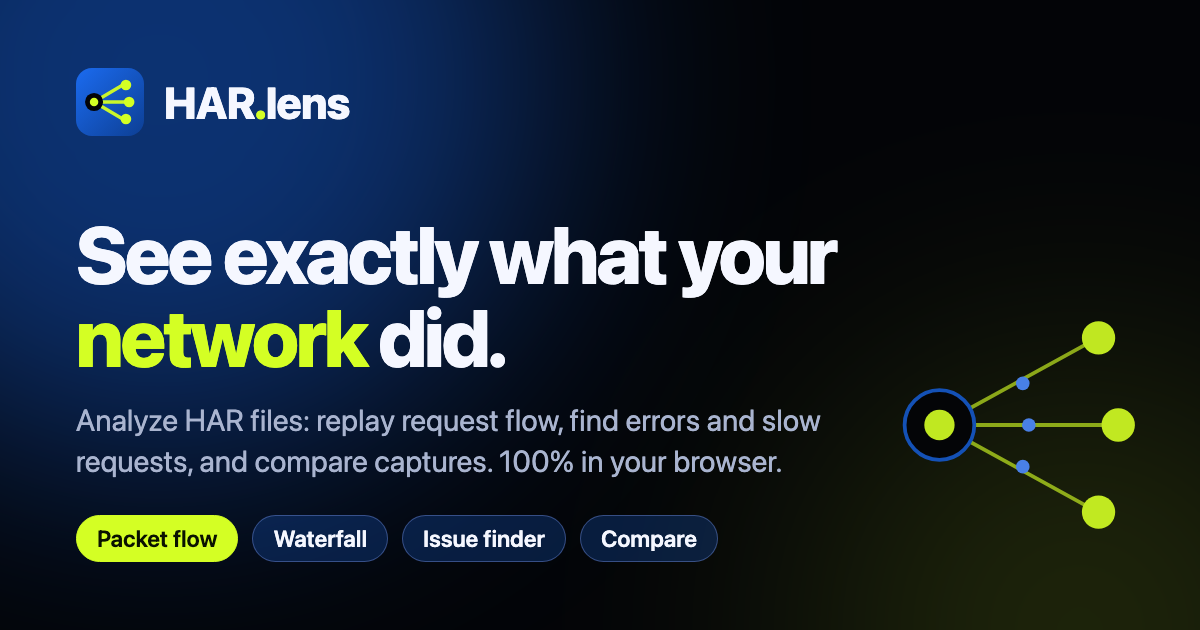
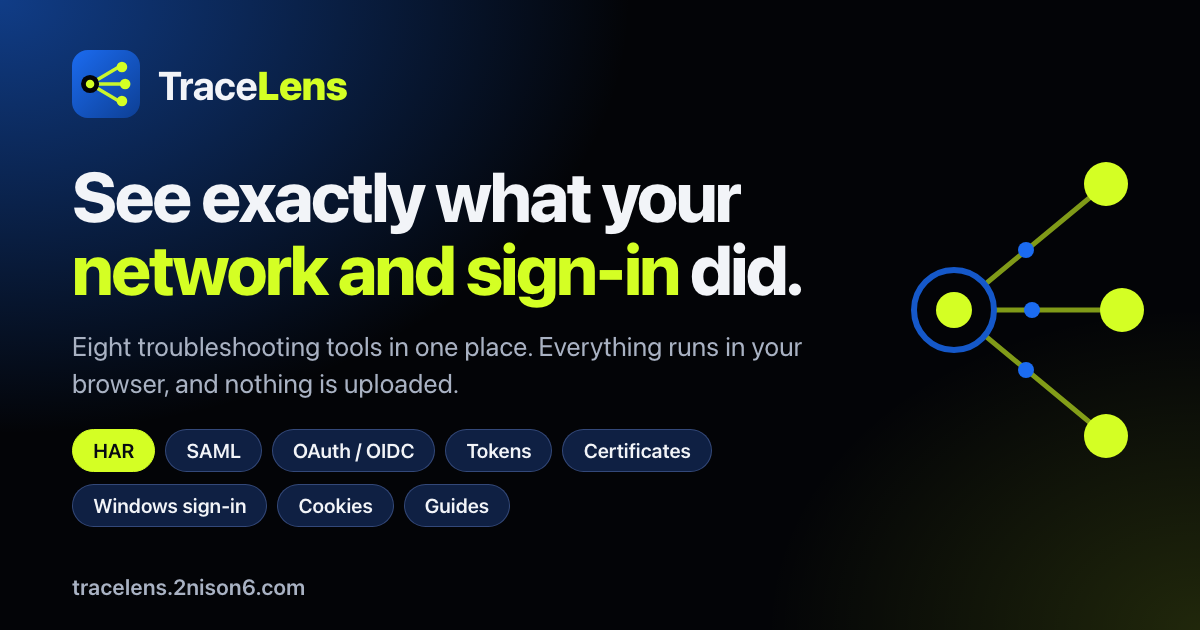
Social preview: new TraceLens og:image, alt text and image in structured data

diff --git a/scripts/og-image.html b/scripts/og-image.html
@@ -1,0 +1,77 @@
+<!doctype html>
+<!--
+  Source for public/og-image.png (the Open Graph / Twitter preview, 1200 x 630).
+  To regenerate: open this file in Chromium at a 1200 x 630 viewport and screenshot the page as PNG.
+  Colours match src/styles/tokens.css and public/favicon.svg.
+-->
+<html lang="en">
+<head>
+<meta charset="utf-8" />
+<title>TraceLens social preview</title>
+<style>
+  * { box-sizing: border-box; margin: 0; }
+  html, body { width: 1200px; height: 630px; overflow: hidden; background: #030407; }
+  body {
+    position: relative; color: #f2f4f8;
+    font-family: -apple-system, BlinkMacSystemFont, 'SF Pro Display', 'Inter', system-ui, 'Segoe UI', sans-serif;
+    -webkit-font-smoothing: antialiased;
+    background:
+      radial-gradient(900px 620px at 0% 0%, rgba(27, 107, 240, 0.55), rgba(27, 107, 240, 0) 70%),
+      radial-gradient(620px 460px at 100% 100%, rgba(212, 255, 36, 0.14), rgba(212, 255, 36, 0) 70%),
+      #030407;
+  }
+  .col { position: absolute; left: 72px; top: 50px; width: 800px; }
+  .brand { display: flex; align-items: center; gap: 18px; }
+  .brand svg { width: 68px; height: 68px; }
+  .brand span { font-size: 40px; font-weight: 700; letter-spacing: -0.02em; }
+  .brand b { color: #d4ff24; }
+  h1 { margin-top: 42px; font-size: 70px; line-height: 1.04; font-weight: 800; letter-spacing: -0.035em; }
+  h1 em { font-style: normal; color: #d4ff24; }
+  p.sub { margin-top: 22px; width: 740px; font-size: 27px; line-height: 1.4; color: #a9b2c3; }
+  .chips { margin-top: 26px; display: flex; flex-wrap: wrap; gap: 12px 10px; width: 820px; }
+  .chip {
+    padding: 9px 20px; border-radius: 999px; font-size: 20px; font-weight: 600;
+    background: rgba(18, 36, 78, 0.85); border: 1px solid rgba(120, 150, 220, 0.35); color: #f2f4f8;
+  }
+  .chip.hot { background: #d4ff24; border-color: #d4ff24; color: #070a12; }
+  .url { position: absolute; left: 72px; bottom: 30px; font-size: 22px; font-weight: 600; color: #a9b2c3; letter-spacing: 0.01em; }
+  svg.graph { position: absolute; right: 36px; top: 120px; width: 270px; height: 380px; }
+</style>
+</head>
+<body>
+  <div class="col">
+    <div class="brand">
+      <svg viewBox="0 0 64 64" aria-hidden="true">
+        <defs><linearGradient id="bg" x1="0" y1="0" x2="1" y2="1"><stop offset="0" stop-color="#1b6bf0"/><stop offset="1" stop-color="#0d3f94"/></linearGradient></defs>
+        <rect width="64" height="64" rx="15" fill="url(#bg)"/>
+        <g stroke="#d4ff24" stroke-width="3.2" stroke-linecap="round" fill="none" opacity=".95">
+          <path d="M17 32 L44 16"/><path d="M17 32 L47 32"/><path d="M17 32 L44 48"/>
+        </g>
+        <circle cx="17" cy="32" r="8.5" fill="#030407"/><circle cx="17" cy="32" r="4" fill="#d4ff24"/>
+        <circle cx="47" cy="16" r="5" fill="#d4ff24"/><circle cx="50" cy="32" r="5" fill="#d4ff24"/><circle cx="47" cy="48" r="5" fill="#d4ff24"/>
+      </svg>
+      <span>Trace<b>Lens</b></span>
+    </div>
+
+    <h1>See exactly what your <em>network and sign-in</em> did.</h1>
+    <p class="sub">Eight troubleshooting tools in one place. Everything runs in your browser, and nothing is uploaded.</p>
+
+    <div class="chips">
+      <span class="chip hot">HAR</span><span class="chip">SAML</span><span class="chip">OAuth / OIDC</span><span class="chip">Tokens</span>
+      <span class="chip">Certificates</span><span class="chip">Windows sign-in</span><span class="chip">Cookies</span><span class="chip">Guides</span>
+    </div>
+  </div>
+
+  <svg class="graph" viewBox="0 0 270 380" aria-hidden="true">
+    <g stroke="#d4ff24" stroke-width="5" stroke-linecap="round" opacity=".6" fill="none">
+      <path d="M60 190 L205 70"/><path d="M60 190 L215 190"/><path d="M60 190 L205 310"/>
+    </g>
+    <g fill="#1b6bf0"><circle cx="132" cy="130" r="8"/><circle cx="138" cy="190" r="8"/><circle cx="132" cy="250" r="8"/></g>
+    <circle cx="60" cy="190" r="40" fill="#030407" stroke="#1558c9" stroke-width="6"/>
+    <circle cx="60" cy="190" r="18" fill="#d4ff24"/>
+    <g fill="#d4ff24"><circle cx="212" cy="64" r="22"/><circle cx="228" cy="190" r="22"/><circle cx="212" cy="316" r="22"/></g>
+  </svg>
+
+  <div class="url">tracelens.2nison6.com</div>
+</body>
+</html>

diff --git a/index.html b/index.html
@@ -36,19 +36,19 @@
     <meta property="og:site_name" content="TraceLens" />
     <meta property="og:title" content="TraceLens: See exactly what your network and sign-in did" />
     <meta property="og:description" content="Eight troubleshooting tools for HAR, SAML, OAuth and OIDC, tokens, certificates, Windows sign-in and cookies. Everything runs in your browser." />
-    <meta property="og:image" content="/og-image.png" />
+    <meta property="og:image" content="/og-image.png?v=2" />
     <meta property="og:image:type" content="image/png" />
     <meta property="og:image:width" content="1200" />
     <meta property="og:image:height" content="630" />
-    <meta property="og:image:alt" content="TraceLens: see exactly what your network and sign-in did" />
+    <meta property="og:image:alt" content="TraceLens logo above the headline &quot;See exactly what your network and sign-in did&quot;, with labels for HAR, SAML, OAuth / OIDC, Tokens, Certificates, Windows sign-in, Cookies and Guides." />
     <meta property="og:locale" content="en_US" />
 
     <!-- Twitter / X -->
     <meta name="twitter:card" content="summary_large_image" />
     <meta name="twitter:title" content="TraceLens: See exactly what your network and sign-in did" />
     <meta name="twitter:description" content="Eight troubleshooting tools for HAR, SAML, OAuth and OIDC, tokens, certificates, Windows sign-in and cookies. Everything runs in your browser." />
-    <meta name="twitter:image" content="/og-image.png" />
-    <meta name="twitter:image:alt" content="TraceLens: see exactly what your network and sign-in did" />
+    <meta name="twitter:image" content="/og-image.png?v=2" />
+    <meta name="twitter:image:alt" content="TraceLens logo above the headline &quot;See exactly what your network and sign-in did&quot;, with labels for HAR, SAML, OAuth / OIDC, Tokens, Certificates, Windows sign-in, Cookies and Guides." />
 
     <!-- iOS web app -->
     <meta name="mobile-web-app-capable" content="yes" />
@@ -82,6 +82,7 @@
             "browserRequirements": "Requires JavaScript",
             "isAccessibleForFree": true,
             "inLanguage": "en",
+            "image": "__SITE_URL__/og-image.png?v=2",
             "featureList": [
               "HAR analyzer: waterfall, request flow, health score, insights and comparison of captures",
               "SAML: decode messages and SAML-tracer exports, check conditions and signatures, compare with metadata",

diff --git a/README.md b/README.md
@@ -104,6 +104,8 @@ The site builds from this repository: build command `npm run build`, publish dir
 
 Already in place: title and description, canonical link and `og:url`, absolute Open Graph and Twitter images, structured data (`WebSite` and `WebApplication`), per-page titles, one `<h1>` per page, and `noindex` on the app pages (they are empty shells without a file). `sitemap.xml` and `robots.txt` are generated at build time for the site origin, so the domain is written in one place only.
 
+The social preview (`public/og-image.png`, 1200 × 630) is drawn from `scripts/og-image.html`. To change it, edit that file, open it in Chromium at that size and save a screenshot over the PNG. Bump the `?v=` on the image URLs in `index.html` so link previews refresh.
+
 After the first deploy, in [Google Search Console](https://search.google.com/search-console):
 
 1. Add the site as a property (a Domain property covers every subdomain; a URL-prefix property for `https://tracelens.2nison6.com/` is quicker) and verify ownership.
